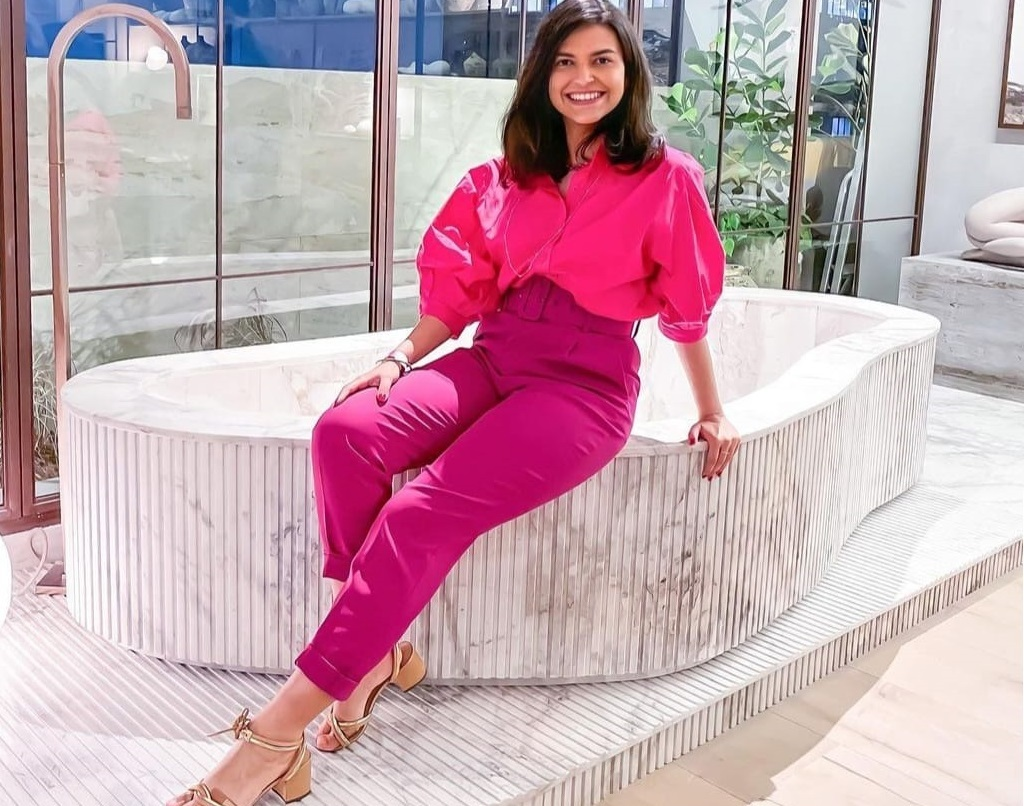
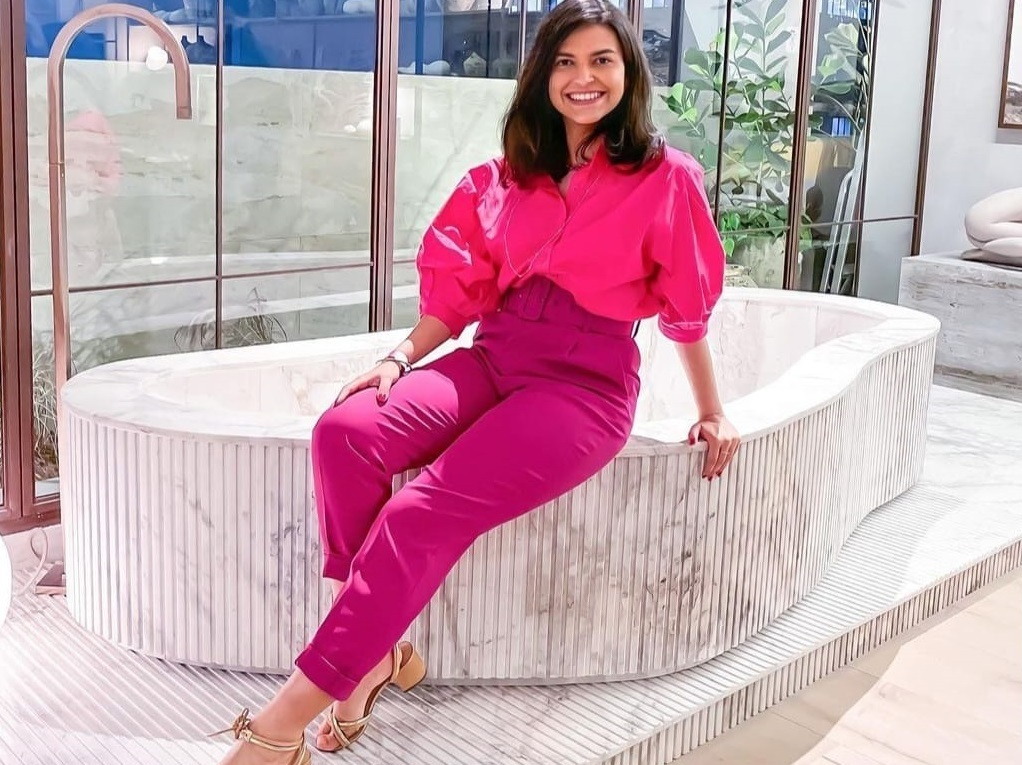
Home pronta para desktop

diff --git a/home.html b/home.html
@@ -68,22 +68,6 @@
                             </a>
                         </li>
                     </ul>
-                    <!-- <a class="ms-auto" href="home.html">
-                        <i class="fa-light fas fa-house fa-lg" style="color: #e66a6a;"></i>
-                    </a>
-                    <a class="ms-auto" href="projetos.html">
-                        <P class="font-menu">Projetos</P>
-                    </a>
-                    <a class="ms-auto"
-                        href="https://docs.google.com/forms/d/e/1FAIpQLScO7AY-TsFiW7R_fINhdNzPVNFvOlGBJiaQwkpmxR1-jPU9Aw/viewform">
-                        <P class="font-menu">Solicite um Orçamento</P>
-                    </a>
-                    <a class="ms-auto" href="clientes.html">
-                        <P class="font-menu">FeedBack dos Clientes</P>
-                    </a>
-                    <a class="ms-auto" href="sobremim.html">
-                        <P class="font-menu">Sobre mim</P>
-                    </a> -->
                 </div>
 
             </div>
@@ -92,7 +76,7 @@
 
     <!-- SLIDE -->
     <section class="padding-top-after-header">
-        <div style="width: 100%; height: 39rem;">
+        <div style="width: 100%; height: 38.5rem;">
             <div id="carouselExampleIndicators" class="carousel slide" data-mdb-ride="carousel">
                 <div class="carousel-indicators">
                     <button type="button" data-mdb-target="#carouselExampleIndicators" data-mdb-slide-to="0"
@@ -112,7 +96,7 @@
                                 <p>Seu texto aqui</p>
                             </div>
                             <div class="image-container">
-                                <img src="images/clarissa.2.2.2.2.jpg" class="d-block w-100" alt="Wild Landscape" />
+                                <img src="images/clarissa.2.2.2.2.jpg" class="d-block w-100" alt="Wild Landscape"  height="610" />
                             </div>
                         </div>
                     </div>
@@ -136,7 +120,7 @@
                                 <p>Seu texto aqui</p>
                             </div>
                             <div class="image-container">
-                                <img src="images/clarissa.4.4.4.4.jpg" class="d-block w-100" alt="Wild Landscape" />
+                                <img src="images/clarissa.4.4.4.4.jpg" class="d-block w-100" alt="Wild Landscape" height="610"/>
                             </div>
                         </div>
                     </div>
@@ -147,7 +131,7 @@
                                 <p>Seu texto aqui</p>
                             </div>
                             <div class="image-container">
-                                <img src="images/clarissa.1.1.1.1.jpg" class="d-block w-100" alt="Wild Landscape" />
+                                <img src="images/clarissa.1.1.1.1.jpg" class="d-block w-100" alt="Wild Landscape" height="610"/>
                             </div>
                         </div>
                     </div>
@@ -160,13 +144,13 @@
 
 
     <!-- Footer -->
-    <footer class="text-center text-lg-start bg-footer text-muted">
+    <footer class="pt-5 text-center text-lg-start bg-footer text-muted">
 
         <!-- Section: Links  -->
-        <section class="">
-            <div class="container text-center text-md-start mt-5">
+        <section>
+            <div class="container text-center text-md-start">
                 <!-- Grid row -->
-                <div class="row mt-3">
+                <div class="row">
                     <!-- Grid column -->
                     <div class="col-md-3 col-lg-4 col-xl-3 mx-auto mb-4">
                         <!-- Content -->
